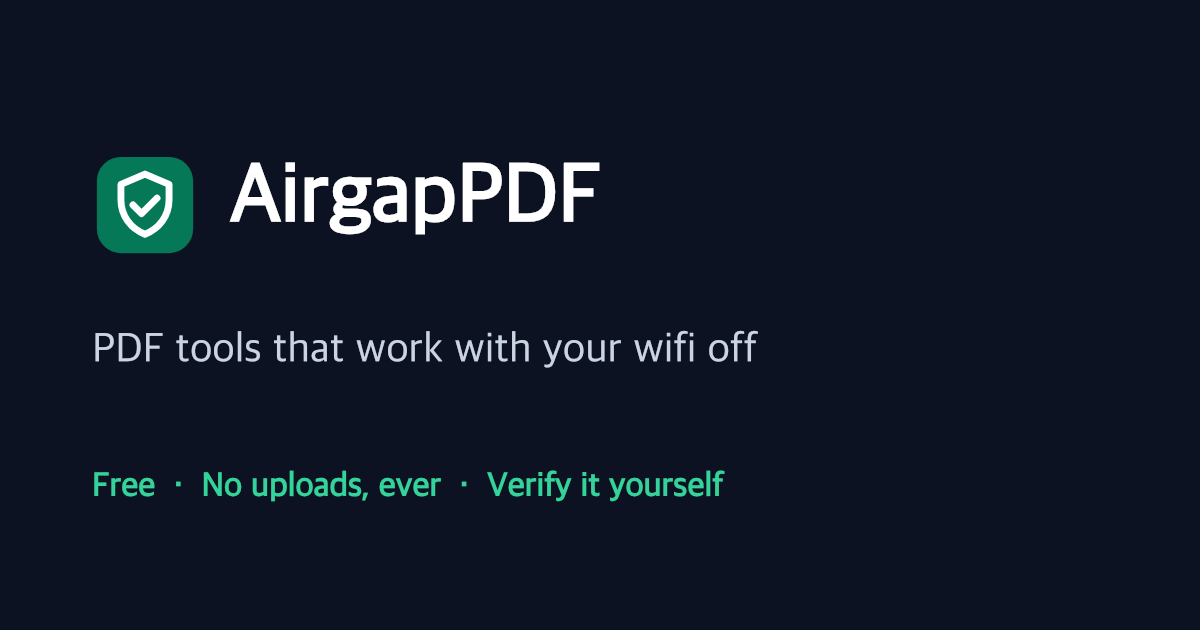
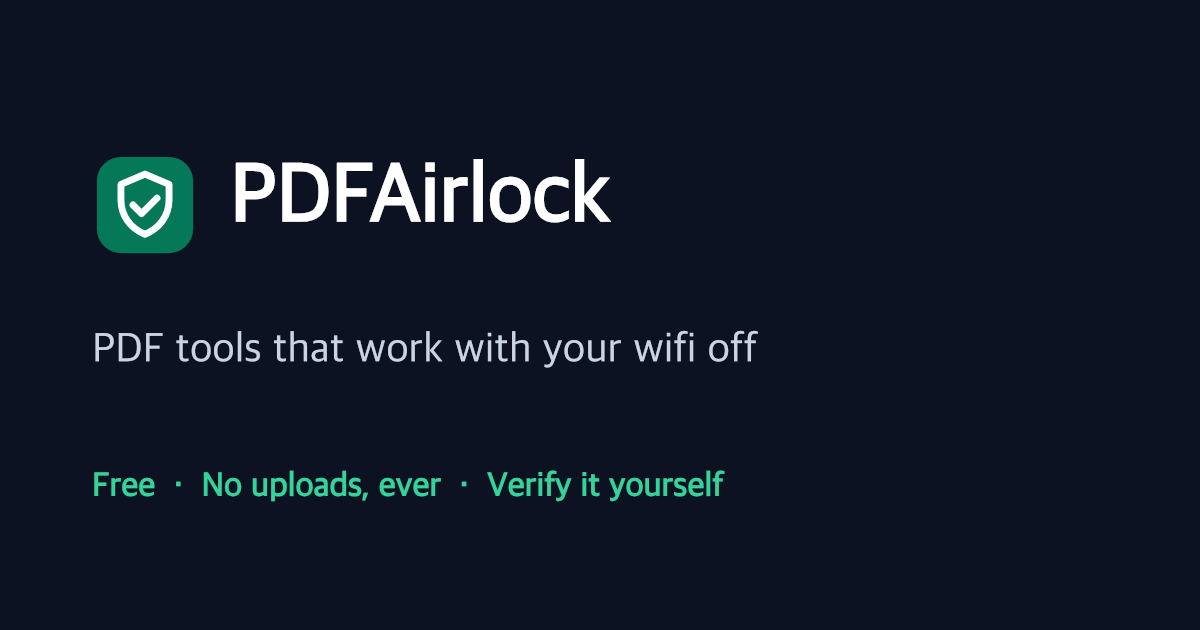
feat: rename to PDFAirlock — pdfairlock.com purchased

Changed region(s): [[0.185, 0.2413, 0.5242, 0.3921]]

diff --git a/src/components/site-chrome.tsx b/src/components/site-chrome.tsx
@@ -8,7 +8,7 @@ export function SiteHeader() {
         <Link href="/" className="flex items-center gap-2 font-semibold text-lg">
           <Logo className="h-7 w-7" />
           <span>
-            Airgap<span className="text-brand">PDF</span>
+            PDF<span className="text-brand">Airlock</span>
           </span>
         </Link>
         <nav className="flex items-center gap-6 text-sm text-ink-soft">
@@ -37,7 +37,7 @@ export function SiteFooter() {
         <div className="flex flex-col gap-6 sm:flex-row sm:justify-between">
           <div className="max-w-md space-y-2">
             <div className="flex items-center gap-2 font-semibold text-ink">
-              <Logo className="h-5 w-5" /> AirgapPDF
+              <Logo className="h-5 w-5" /> PDFAirlock
             </div>
             <p>
               Every tool on this site runs entirely in your browser. Your files never leave your
@@ -66,7 +66,7 @@ export function SiteFooter() {
           </nav>
         </div>
         <p className="mt-8 text-xs text-zinc-400">
-          © {new Date().getFullYear()} AirgapPDF. Software provided as-is; verify output before
+          © {new Date().getFullYear()} PDFAirlock. Software provided as-is; verify output before
           distributing sensitive documents.
         </p>
       </div>

diff --git a/src/app/pricing/page.tsx b/src/app/pricing/page.tsx
@@ -4,7 +4,7 @@ import Link from "next/link";
 export const metadata: Metadata = {
   title: "Pricing — everything is free during beta",
   description:
-    "All AirgapPDF tools are completely free while we're in beta. Paid licenses will be one-time purchases — never a subscription — and will be announced here.",
+    "All PDFAirlock tools are completely free while we're in beta. Paid licenses will be one-time purchases — never a subscription — and will be announced here.",
   alternates: { canonical: "/pricing" },
 };
 
@@ -28,7 +28,7 @@ export default function PricingPage() {
           At some point we&apos;ll introduce paid licenses for advanced features. Two promises we
           can already make: it will be a <strong>one-time purchase, never a subscription</strong>
           {" — "}we don&apos;t run servers to process your files, so we don&apos;t need to charge
-          you rent — and people who used AirgapPDF during the beta will get a launch discount.
+          you rent — and people who used PDFAirlock during the beta will get a launch discount.
           Pricing will be announced on this page.
         </p>
       </div>

diff --git a/src/app/page.tsx b/src/app/page.tsx
@@ -97,13 +97,13 @@ export default function Home() {
       </section>
 
       <section className="pb-16">
-        <h2 className="text-2xl font-bold">AirgapPDF vs. the upload-everything sites</h2>
+        <h2 className="text-2xl font-bold">PDFAirlock vs. the upload-everything sites</h2>
         <div className="mt-6 overflow-x-auto">
           <table className="w-full min-w-[560px] border-collapse overflow-hidden rounded-2xl border border-zinc-200 bg-surface text-sm">
             <thead>
               <tr className="bg-zinc-50 text-left">
                 <th className="px-4 py-3 font-medium" />
-                <th className="px-4 py-3 font-semibold text-brand-dark">AirgapPDF</th>
+                <th className="px-4 py-3 font-semibold text-brand-dark">PDFAirlock</th>
                 <th className="px-4 py-3 font-medium text-ink-soft">Typical PDF site</th>
               </tr>
             </thead>

diff --git a/e2e/site.spec.ts b/e2e/site.spec.ts
@@ -40,7 +40,7 @@ test("every tool page serves canonical + FAQ JSON-LD + privacy badge", async ({ 
     const res = await request.get(`/${slug}`);
     expect(res.status(), slug).toBe(200);
     const html = await res.text();
-    expect(html, slug).toContain(`rel="canonical" href="https://airgappdf.com/${slug}"`);
+    expect(html, slug).toContain(`rel="canonical" href="https://pdfairlock.com/${slug}"`);
     expect(html, slug).toContain('"@type":"FAQPage"');
     expect(html, slug).toContain("nothing is uploaded");
   }
@@ -51,7 +51,7 @@ test("sitemap lists every page", async ({ request }) => {
   const locs = xml.match(/<loc>/g) ?? [];
   expect(locs.length).toBe(TOOL_SLUGS.length + 5);
   for (const slug of TOOL_SLUGS) {
-    expect(xml).toContain(`https://airgappdf.com/${slug}`);
+    expect(xml).toContain(`https://pdfairlock.com/${slug}`);
   }
 });
 

diff --git a/src/lib/tools.ts b/src/lib/tools.ts
@@ -133,7 +133,7 @@ export const TOOLS: ToolMeta[] = [
     faq: [
       {
         q: "How is this different from drawing a black rectangle?",
-        a: "Most tools draw a black box over the text — the text is still in the file and can be copied out. This has caused real legal scandals. AirgapPDF rebuilds redacted pages so the underlying text ceases to exist, then re-scans the output to prove it and shows you the verification report.",
+        a: "Most tools draw a black box over the text — the text is still in the file and can be copied out. This has caused real legal scandals. PDFAirlock rebuilds redacted pages so the underlying text ceases to exist, then re-scans the output to prove it and shows you the verification report.",
       },
       {
         q: "What does the verification report check?",

diff --git a/src/app/pdf-redaction-for-law-firms/page.tsx b/src/app/pdf-redaction-for-law-firms/page.tsx
@@ -28,7 +28,7 @@ export default function LawFirmsPage() {
             In a PDF, drawing a black shape over text doesn&apos;t remove the text — it sits in the
             file underneath, one copy-paste away. Court filings redacted this way have been
             unredacted by journalists and opposing counsel with nothing more than select-all. Proper
-            redaction must rewrite the document so the content ceases to exist. AirgapPDF rebuilds
+            redaction must rewrite the document so the content ceases to exist. PDFAirlock rebuilds
             redacted pages from pixels: after processing, there is no text object left to extract on
             those pages.
           </p>

diff --git a/src/app/privacy/page.tsx b/src/app/privacy/page.tsx
@@ -4,7 +4,7 @@ import Link from "next/link";
 export const metadata: Metadata = {
   title: "Why your files never leave your device — and how to verify it",
   description:
-    "AirgapPDF processes every file inside your browser. No uploads, no analytics, no cookies. Here's exactly how that works and how to check it yourself in 30 seconds.",
+    "PDFAirlock processes every file inside your browser. No uploads, no analytics, no cookies. Here's exactly how that works and how to check it yourself in 30 seconds.",
   alternates: { canonical: "/privacy" },
 };
 

diff --git a/src/components/tool-ui.tsx b/src/components/tool-ui.tsx
@@ -218,7 +218,7 @@ export function ResultPanel({
               const zip = await runOp<Uint8Array>("zipFiles", [
                 results.map((r) => ({ name: r.name, bytes: r.bytes })),
               ]);
-              downloadBytes(zip, "airgap-pdf-batch.zip", "application/zip");
+              downloadBytes(zip, "pdfairlock-batch.zip", "application/zip");
             }}
             className="rounded-lg border border-brand px-3 py-1.5 text-sm font-medium text-brand-dark hover:bg-surface"
           >

diff --git a/src/app/manifest.ts b/src/app/manifest.ts
@@ -4,8 +4,8 @@ export const dynamic = "force-static";
 
 export default function manifest(): MetadataRoute.Manifest {
   return {
-    name: "AirgapPDF — private PDF tools",
-    short_name: "AirgapPDF",
+    name: "PDFAirlock — private PDF tools",
+    short_name: "PDFAirlock",
     description: "PDF tools that work with your wifi off. Files never leave your device.",
     start_url: "/",
     display: "standalone",

diff --git a/src/lib/site.ts b/src/lib/site.ts
@@ -1,3 +1,3 @@
-export const SITE_NAME = "AirgapPDF";
-export const SITE_URL = "https://airgappdf.com";
+export const SITE_NAME = "PDFAirlock";
+export const SITE_URL = "https://pdfairlock.com";
 export const SITE_TAGLINE = "PDF tools that work with your wifi off";

diff --git a/src/lib/license/license.ts b/src/lib/license/license.ts
@@ -37,7 +37,7 @@ export async function verifyLicenseKey(
   }
 }
 
-const STORAGE_KEY = "airgap-license";
+const STORAGE_KEY = "pdfairlock-license";
 
 export function storeLicense(key: string): void {
   localStorage.setItem(STORAGE_KEY, key);

diff --git a/public/sw.js b/public/sw.js
@@ -1,4 +1,4 @@
-const CACHE = "airgap-v5";
+const CACHE = "pdfairlock-v6";
 try {
   importScripts("/precache-manifest.js");
 } catch {
